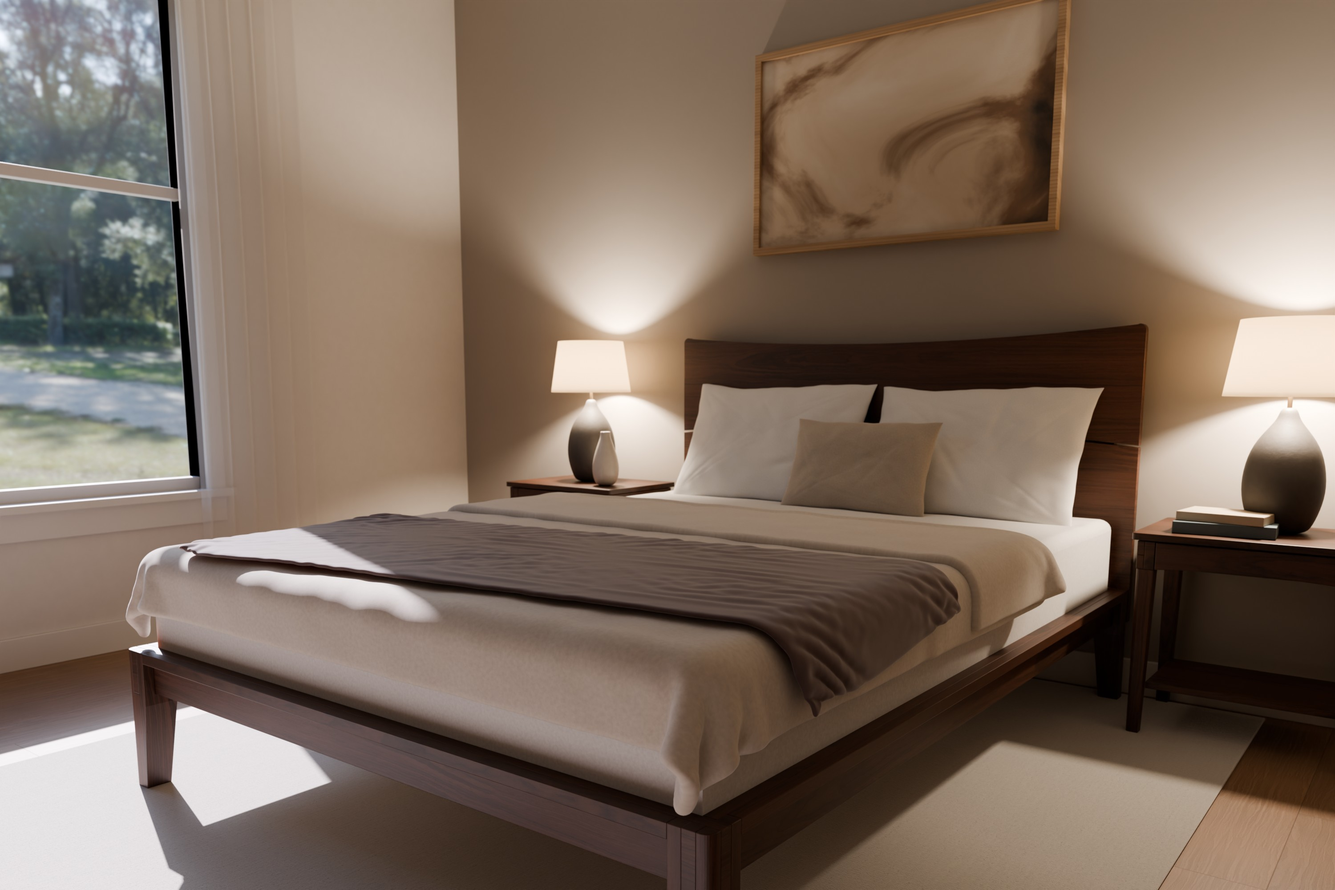
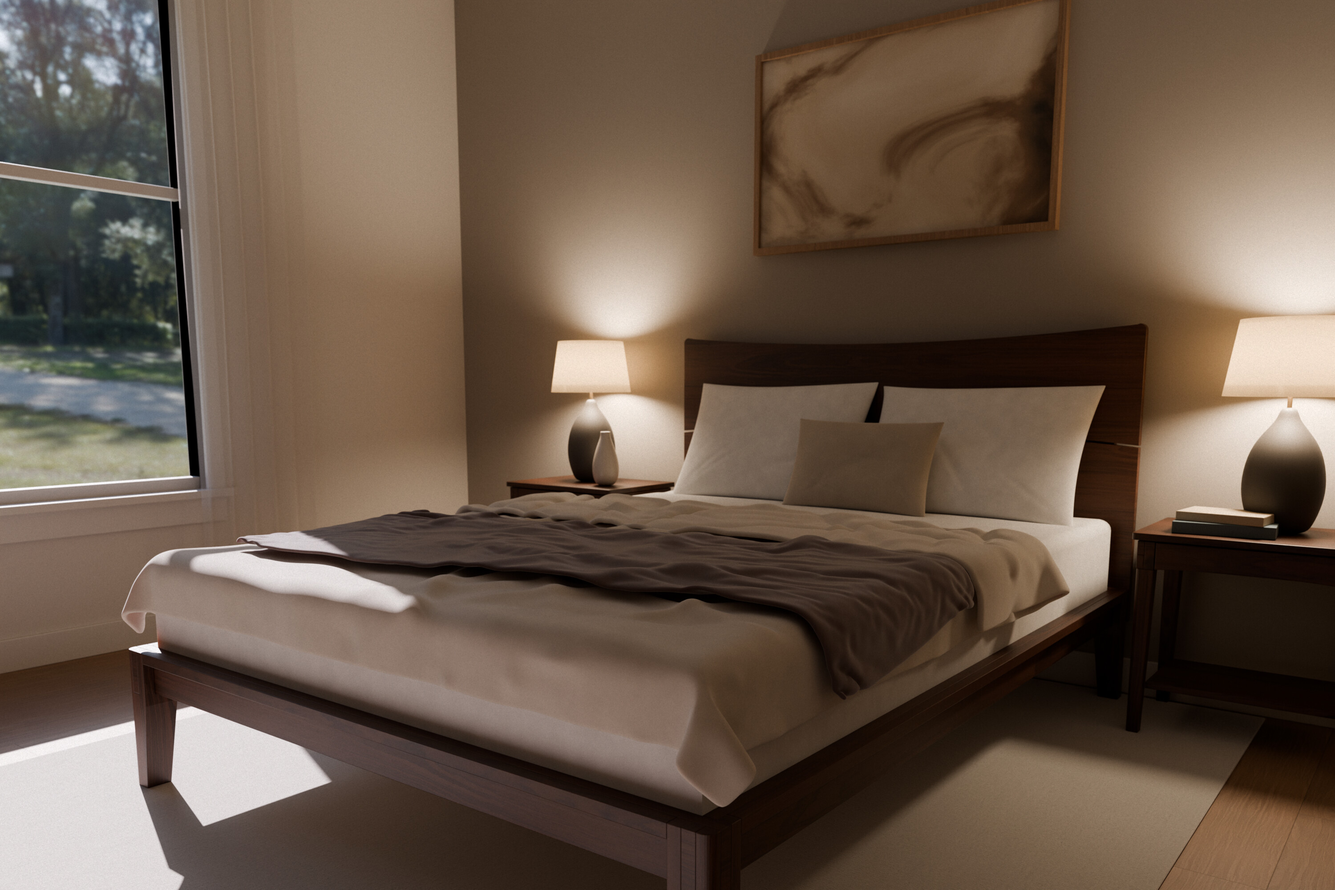
plan-to-photo: realism gauntlet fixes for the walnut bed (duvet folds, soft lamp bulbs, camera grain)

diff --git a/plan-to-photo/scripts/p2p.py b/plan-to-photo/scripts/p2p.py
@@ -691,6 +691,26 @@ def creases(o, seed=11, depth=0.009):
     o.modifiers.new('sub', 'SUBSURF').levels = 1; smooth(o)
 
 
+def wrinkle(o, seed=7, depth=0.018, folds=90, lump=0.007):
+    """Fine folds and lumps on a simulated sheet (duvet, throw, tablecloth). A cloth sim over a
+    mattress settles into a few big smooth drapes; real bedding also carries dozens of small
+    compression folds and filling lumps, and without them it reads as rubber (walnut bed r00).
+    Subdivides once, then pushes vertices along their normals."""
+    np = _np(); rng = np.random.default_rng(seed)
+    o.modifiers.new('wsub', 'SUBSURF').levels = 1; apply_mods(o, {'SUBSURF'})
+    P = getv(o); o.data.update(); N = np.zeros(P.size); o.data.vertex_normals.foreach_get('vector', N); N = N.reshape(-1, 3)
+    off = np.zeros(len(P))
+    for _ in range(folds):
+        c = P[rng.integers(len(P))]; a = rng.uniform(0, math.pi); d = np.array([math.cos(a), math.sin(a), 0.0])
+        r = P - c; t = r @ d; s = np.linalg.norm(r - t[:, None] * d, axis=1)
+        ln = rng.uniform(0.12, 0.5); w = rng.uniform(0.012, 0.03)
+        off += rng.choice([1.0, 1.0, -0.6]) * rng.uniform(0.4, 1.0) * np.exp(-(s / w) ** 2) * np.exp(-(t / ln) ** 2)
+    ph = rng.uniform(0, 2 * math.pi, 4)
+    lumps = (np.sin(11 * P[:, 0] + ph[0]) * np.sin(13 * P[:, 1] + ph[1]) + 0.5 * np.sin(23 * P[:, 0] + 17 * P[:, 1] + ph[2])) / 1.5
+    setv(o, P + N * (depth * off + lump * lumps)[:, None])
+    print('WRINKLE %s %d verts, deepest fold %.1f mm' % (o.name, len(P), 1000 * depth * float(np.abs(off).max())))
+
+
 def pillow(name, sx, sy, sz, mat, n=48, seed=0):
     """A pillow or cushion: a filled case sx by sy (half sizes) and sz thick, centred at the origin,
     lying in XY. Follow with creases(), then rotate and place, then lean_on/rest_on/press_into."""
@@ -729,7 +749,7 @@ def lamp(name, x, y, z0, base_mat, shade_mat, rod_mat, watts=18, color=(1.0, 0.7
     r = lathe(name + '_Rod', [(0.006, 0.33), (0.006, 0.52)], 24, rod_mat); r.location = (x, y, z0)
     s = lathe(name + '_Shade', [(0.16, 0.36), (0.13, 0.56)], 96, shade_mat, cap_bottom=False, cap_top=False); s.location = (x, y, z0)
     s.modifiers.new('sol', 'SOLIDIFY').thickness = 0.002; smooth(s)
-    ld = bpy.data.lights.new(name + '_Bulb', 'POINT'); ld.energy = watts; ld.shadow_soft_size = 0.03; ld.color = color
+    ld = bpy.data.lights.new(name + '_Bulb', 'POINT'); ld.energy = watts; ld.shadow_soft_size = 0.065; ld.color = color
     lo = bpy.data.objects.new(name + '_Bulb', ld); lo.location = (x, y, z0 + 0.46); col().objects.link(lo)
     return [b, r, s, lo]
 

diff --git a/plan-to-photo/scripts/render.py b/plan-to-photo/scripts/render.py
@@ -44,6 +44,7 @@ ap.add_argument('--look', default='AgX - Medium High Contrast')
 ap.add_argument('--border', default=None)
 ap.add_argument('--backplate', default=None); ap.add_argument('--haze', type=float, default=0.12)
 ap.add_argument('--bp-gain', type=float, default=1.0)
+ap.add_argument('--grain', type=float, default=0.007, help='sensor noise, shot-noise scaled, as it reads at 2000 px wide (scaled with width); 0 = off')
 ap.add_argument('--suncheck', action='store_true'); ap.add_argument('--device', default='auto')
 A = ap.parse_args(argv)
 V = lambda s: Vector(tuple(map(float, s.split(','))))
@@ -178,4 +179,14 @@ try: vs.use_white_balance = True; vs.white_balance_temperature = A.wb
 except Exception as e: print('WB not available:', e)
 sc.render.image_settings.file_format = 'PNG'; sc.render.filepath = os.path.abspath(A.out)
 bpy.ops.render.render(write_still=True)
+if A.grain > 0 and not A.preview:
+    import numpy as np
+    im = bpy.data.images.load(os.path.abspath(A.out)); w, h = im.size
+    px = np.empty(w * h * 4, dtype=np.float32); im.pixels.foreach_get(px); px = px.reshape(h, w, 4)
+    rng = np.random.default_rng(7); v = px[..., :3]
+    lum = rng.standard_normal((h, w, 1)).astype(np.float32); chroma = 0.25 * rng.standard_normal((h, w, 3)).astype(np.float32)
+    nz = lum + chroma; nz = (nz + np.roll(nz, 1, 0) + np.roll(nz, 1, 1) + np.roll(np.roll(nz, 1, 0), 1, 1)) / 2.0
+    px[..., :3] = np.clip(v + A.grain * w / 2000 * np.sqrt(np.maximum(v, 0.004)) * nz, 0, 1)
+    im.pixels.foreach_set(px.reshape(-1)); im.filepath_raw = os.path.abspath(A.out); im.file_format = 'PNG'; im.save()
+    print('GRAIN', A.grain)
 print('RENDERED', A.out, '%dx%d' % (rx, ry), c.samples, 'spp')

diff --git a/plan-to-photo/scripts/dress/bed.py b/plan-to-photo/scripts/dress/bed.py
@@ -64,6 +64,7 @@ def duvet_fn(u, v):
 nu = max(40, int(DW / 0.024)); nv = max(60, int(Lt / 0.024))
 duvet = grid('Duvet', nu, nv, duvet_fn, BM['duvet'])
 run_cloth(duvet, 55, mass=0.5, bend=1.5, tension=10, dist=0.008, selfd=0.009)
+wrinkle(duvet, seed=B.get('wrinkle_seed', 7))
 duvet.modifiers.new('sol', 'SOLIDIFY').thickness = 0.014
 duvet.modifiers.new('sub', 'SUBSURF').render_levels = 2; smooth(duvet)
 

diff --git a/plan-to-photo/references/realism.md b/plan-to-photo/references/realism.md
@@ -24,6 +24,11 @@ render the way a viewer does. Check each one on the review sheet before calling 
   (`creases`).
 - **Drape cloth with a sim, never by hand.** Duvet, throw, tablecloth, curtains hang from cloth
   simulation over collision objects (`run_cloth`), then get thickness and subdivision.
+- **A settled sim is too smooth; add the small folds.** A duvet sim over a mattress settles into a
+  few big drapes and reads as rubber (gauntlet r00: six of six critics named it). `wrinkle` adds
+  dozens of 1 to 3 cm compression folds and filling lumps along the normals after the sim; five of
+  five critics preferred it. Don't go finer: 3 mm creases and crinkle bump maps read as pockmarks
+  or a pasted pattern (r02, r03), and quilt puffs as blobs (r07).
 
 ## Light
 
@@ -38,6 +43,9 @@ render the way a viewer does. Check each one on the review sheet before calling 
 - **Watch blown highlights.** A sun patch on a pale rug clips to white. Lower `--sun-gain` (0.7 to
   0.85) or `--exposure` a little; AgX keeps the rest.
 - **Practical lamps on.** Warm (about 2700 K) lamps in a daylit room are what make a room feel lived in.
+- **Lamp bulbs are big.** A 3 cm point bulb throws a hard-edged cone up the wall that critics call a
+  CG spotlight; a 6.5 cm bulb (a real A19) softens the cone's edge (gauntlet r05, four of five
+  preferred). Don't switch lamps off to hide it: the room goes dark (r13).
 
 ## Materials
 
@@ -59,6 +67,11 @@ render the way a viewer does. Check each one on the review sheet before calling 
 - f/5.6 with focus on the hero: the background softens a little, as a real photo would. Stopping
   down to f/8 to sharpen the window view (v5) made the garden look like a photo pasted in; Mike
   preferred v4's soft view. A window view should be slightly soft and brighter than the room.
+- **A little grain.** A denoised render is cleaner than any camera; faint shot-noise grain
+  (`--grain 0.007`, scaled with width, no stronger than the walls in real photos) won five of five
+  (gauntlet r06). Stronger reads as added noise, and at 3000 px wide even this was called render
+  noise by some critics, so keep it faint.
+- Keep the exposure moody rather than lifted: opening up half a stop read as hazy render GI (r11).
 - 3:2 at 3000x2000 for the final. Previews at a quarter size and 64 samples.
 
 ## Process
